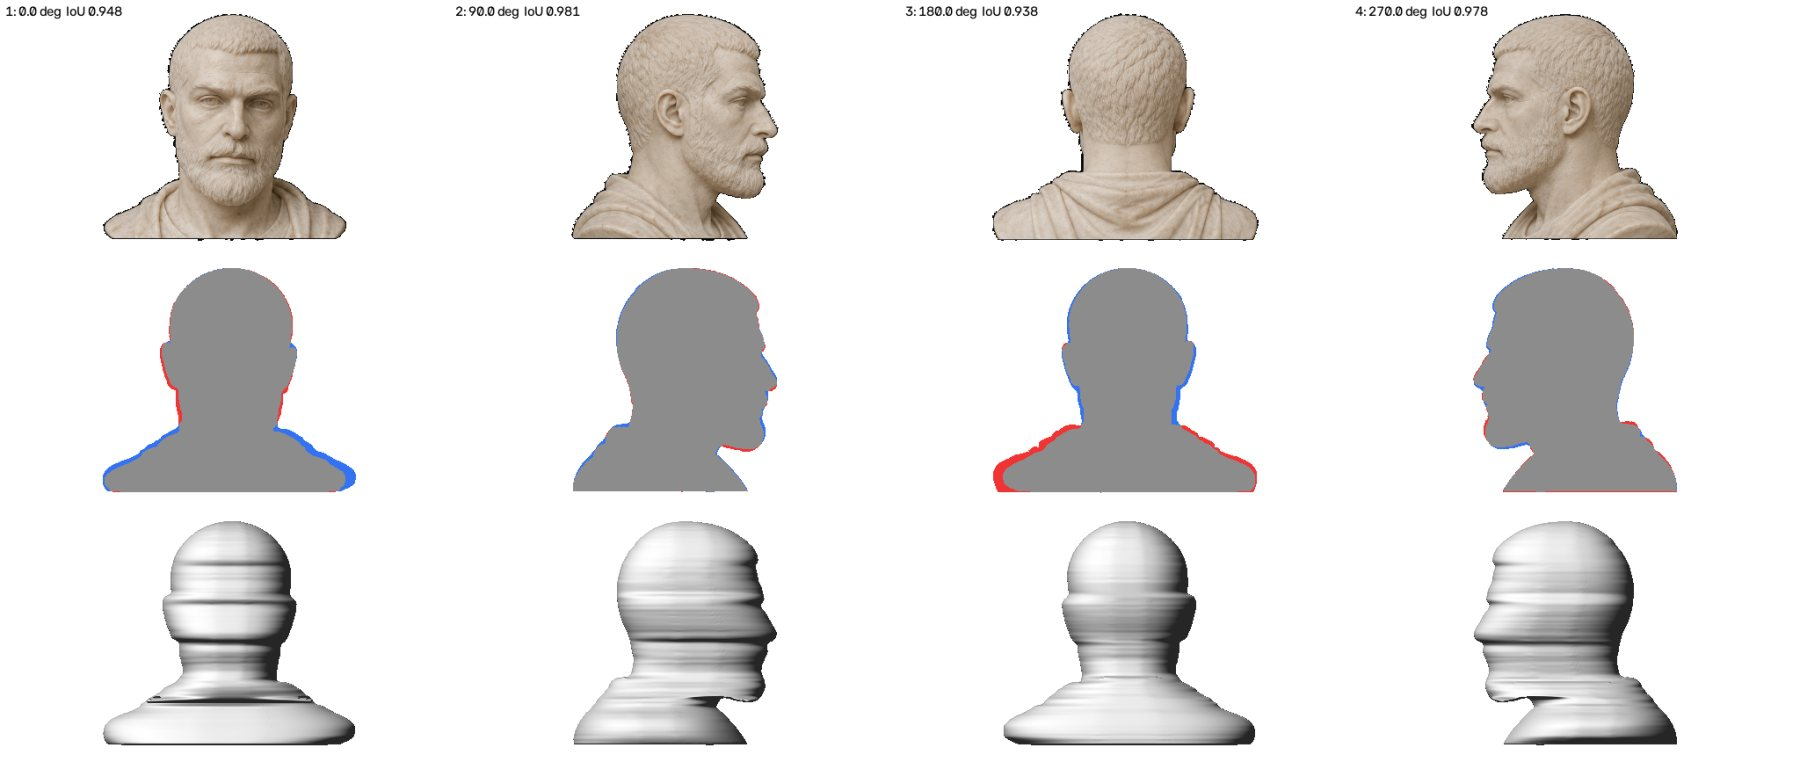
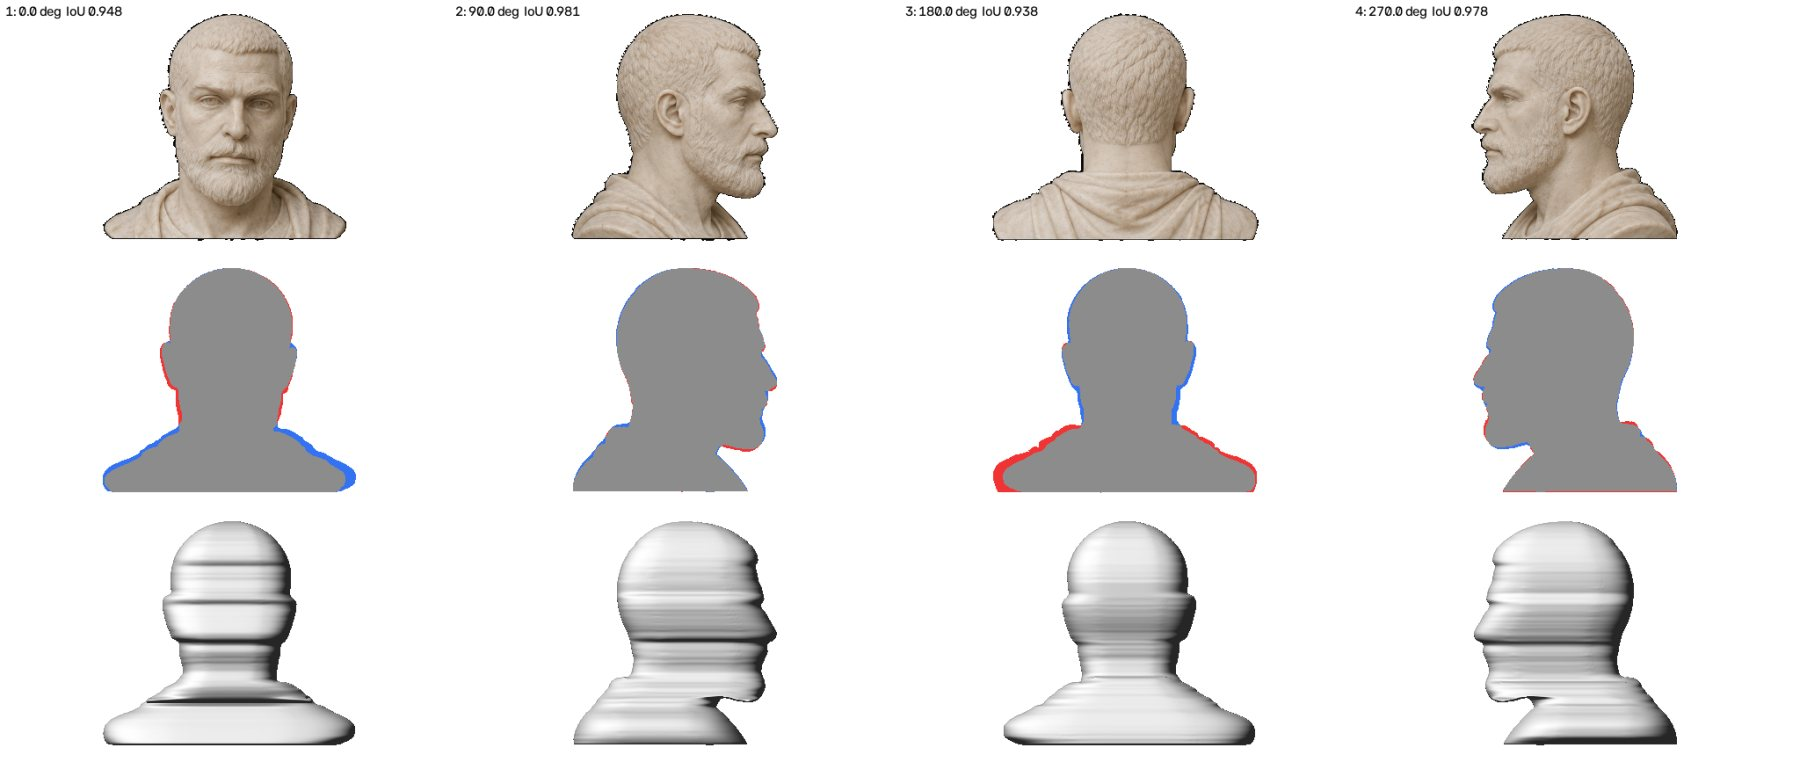
views_to_3d: safer defaults from tests on two known shapes
- 4-view rounding default 4 (rounded box): under 1 % of the true surface
  cut away on both test objects, still 20-35 % closer than the box hull
- --refine none keeps the drawn angles but still solves the centres
  (bbox centres alone cut up to 25 % of an asymmetric bust)
- optional --sections smooth for organic 8-view sheets
- TOOLKIT and README: final result tables (kettle 790 mm, bust 290 mm)

Claude-Session: https://claude.ai/code/session_018nizdY5ywakqgwUfYn1akH

diff --git a/image-to-3d/views_to_3d/views_to_3d.py b/image-to-3d/views_to_3d/views_to_3d.py
@@ -359,6 +359,60 @@ def round_cells(vol, n_exp):
     return out
 
 
+def smooth_sections(vol, angles, X, Y, convex_min=0.95, n_dense=180):
+    """3+ view directions: every hull slice is a polygon whose edges come from the
+    outlines. For each nearly convex piece, replace it by the smooth convex shape whose
+    support function is a periodic spline through the polygon's support at the view
+    normals. It touches every outline line, but cuts the polygon's corners."""
+    from scipy.interpolate import CubicSpline
+    g = X[0, 1] - X[0, 0]
+    phis = sorted(set(round((-a) % 360.0, 6) for a in angles) | set(round((180.0 - a) % 360.0, 6) for a in angles))
+    phis = np.radians(np.array(phis))
+    if len(phis) < 6:
+        return vol
+    dense = np.linspace(0, 2 * np.pi, n_dense, endpoint=False)
+    nd = np.stack([np.cos(dense), np.sin(dense)], 1)
+    out = vol.copy()
+    for i in range(vol.shape[0]):
+        sl = vol[i]
+        inside = sl < 0
+        if not inside.any():
+            continue
+        lab, nl = ndi.label(inside)
+        for ci, box in enumerate(ndi.find_objects(lab)):
+            if box is None:
+                continue
+            ys, xs = box
+            y0, y1 = max(0, ys.start - 1), min(sl.shape[0], ys.stop + 1)
+            x0, x1 = max(0, xs.start - 1), min(sl.shape[1], xs.stop + 1)
+            comp = lab[y0:y1, x0:x1] == ci + 1
+            if comp.sum() < 30:
+                continue
+            field = np.where(comp, sl[y0:y1, x0:x1], np.maximum(sl[y0:y1, x0:x1], 0.5))
+            cs = measure.find_contours(field, 0.0)
+            if not cs:
+                continue
+            pts = np.concatenate(cs)                                   # (row, col) in the window
+            P = np.stack([X[0, 0] + (pts[:, 1] + x0) * g, Y[0, 0] + (pts[:, 0] + y0) * g], 1)
+            try:
+                from scipy.spatial import ConvexHull
+                hull_area = ConvexHull(P).volume
+            except Exception:
+                continue
+            if comp.sum() * g * g < convex_min * hull_area:
+                continue                                               # concave piece: keep it
+            h = np.array([(P @ np.array([np.cos(t), np.sin(t)])).max() for t in phis])
+            tt = np.concatenate([phis, [phis[0] + 2 * np.pi]])
+            hh = np.concatenate([h, [h[0]]])
+            hs = CubicSpline(tt, hh, bc_type="periodic")(np.where(dense < phis[0], dense + 2 * np.pi, dense))
+            yy, xx = np.mgrid[y0:y1, x0:x1]
+            Q = np.stack([X[0, 0] + xx.ravel() * g, Y[0, 0] + yy.ravel() * g], 1)
+            f = (Q @ nd.T - hs[None]).max(1).reshape(comp.shape)
+            blk = out[i, y0:y1, x0:x1]
+            blk[comp] = np.maximum(blk[comp], f[comp])
+    return out
+
+
 def directions(angles):
     """Number of distinct view directions (a view and its mirror view count once)."""
     return len(set(int(round(a % 180.0)) % 180 for a in angles))
@@ -439,7 +493,10 @@ def calibrate(V, angles, refine, Hc, Wc, log):
     X, Y, _ = grid_xy(96, 0.5 * m_lr[0].shape[1])
     c_lr = lambda cs: [c * f for c in cs]
     ang = list(angles)
-    free = [k for k in range(n) if (refine == "all" and k > 0) or (refine == "oblique" and not nominal(angles[k]))]
+    # views to solve: their centre is always unknown (the axis is not the outline's middle);
+    # with refine "none" the drawn angle is kept and only the centre is searched
+    free = [k for k in range(n) if (refine == "all" and k > 0) or (refine != "all" and not nominal(angles[k]))]
+    a_coarse = np.arange(-25.0, 25.01, 2.5) if refine != "none" else np.array([0.0])
     groups, seen = [], set()
     for k in free:
         if k in seen:
@@ -487,8 +544,9 @@ def calibrate(V, angles, refine, Hc, Wc, log):
     for grp in groups:
         k, j, _S = grp
         c_ref = centres[k]
-        da, c, lo, hi, _sc = scan(grp, np.arange(-25.0, 25.01, 2.5), c_ref + np.arange(-0.12, 0.1201, 0.02) * Wc)
-        fine_a = np.arange(max(-25.0, lo - 2.5), min(25.0, hi + 2.5) + 0.01, 1.0)
+        da, c, lo, hi, _sc = scan(grp, a_coarse, c_ref + np.arange(-0.12, 0.1201, 0.02) * Wc)
+        fine_a = (np.arange(max(-25.0, lo - 2.5), min(25.0, hi + 2.5) + 0.01, 1.0)
+                  if refine != "none" else np.array([0.0]))
         da, c, lo, hi, sc = scan(grp, fine_a, c + np.arange(-0.03, 0.0301, 0.005) * Wc)
         # last pass: the centre alone, fine steps. Outlines fit equally well over a band of
         # centres; take its middle, and keep its half width as this view's uncertainty
@@ -696,13 +754,17 @@ def main(argv=None):
     ap.add_argument("--order", default="auto", choices=["auto", "as-is", "reverse"],
                     help="turn direction; auto = colour agreement test")
     ap.add_argument("--refine", default="oblique", choices=["none", "oblique", "all"],
-                    help="refine view angles by outline consistency")
+                    help="refine view angles by outline consistency (none = keep drawn angles; "
+                         "centres are always solved)")
     ap.add_argument("--height-mm", type=float, default=1000.0, help="real height of the object")
     ap.add_argument("--res", type=int, default=256, help="voxels over the height")
     ap.add_argument("--pairs", default="mean", choices=["mean", "strict"],
                     help="a view and its mirror view: average their outlines (mean) or cut by both")
     ap.add_argument("--round", default="auto",
-                    help="superellipse exponent for 2-direction sheets (4 views): auto = 2.5, off, or a number")
+                    help="superellipse exponent for 2-direction sheets (4 views): auto = 4, off, or a number "
+                         "(2.5 = closest shape, but shaves ~10%% of the surface)")
+    ap.add_argument("--sections", default="polygon", choices=["polygon", "smooth"],
+                    help="3+ view directions: keep the hull's polygon slices, or smooth convex ones")
     ap.add_argument("--soft", default="0",
                     help="round the edges between hull facets, px at --res (0 = off; tests: off is more accurate)")
     ap.add_argument("--tolerance", type=int, default=0,
@@ -742,7 +804,7 @@ def main(argv=None):
     tol_views = max(0, a.tolerance)
     pair_mean = a.pairs == "mean"
     if a.round == "auto":
-        round_n = 2.5 if directions(angles) <= 2 else 0.0
+        round_n = 4.0 if directions(angles) <= 2 else 0.0
     elif a.round == "off":
         round_n = 0.0
     else:
@@ -783,7 +845,11 @@ def main(argv=None):
     def build(ang_, cen_, rows_, X_, Y_):
         vol_ = hull_volume(sdfs, ang_, cen_, rows_, X_, Y_, tol_views, pair_mean=pair_mean, soft=soft_px,
                            grow=slack)
-        return round_cells(vol_, round_n) if round_n else vol_
+        if round_n:
+            return round_cells(vol_, round_n)
+        if a.sections == "smooth" and directions(ang_) >= 3:
+            return smooth_sections(vol_, ang_, X_, Y_)
+        return vol_
 
     if len(hyps) > 1:
         rows_l = np.arange(0, Hc, 2)

diff --git a/image-to-3d/views_to_3d/README.md b/image-to-3d/views_to_3d/README.md
@@ -56,24 +56,42 @@ Every step runs automatically:
    - So colour decides. The tool tests how well neighbouring views agree in luminance and chroma, at raw and fine-detail scales, on the surface points both views see.
 6. **Hull.**
    - A view and its mirror view count as one averaged outline (`--pairs mean`). AI sheets never draw front and back exactly mirrored, and a strict cut loses material.
-   - With only two view directions (4 views), every slice of the hull is a set of rectangles. Each rectangle gets a superellipse inscribed in it (`--round 2.5`).
+   - With only two view directions (4 views), every slice of the hull is a set of rectangles. Each rectangle gets a superellipse inscribed in it (`--round 4`: a rounded box).
    - The tool keeps the largest solid and fills its internal holes.
 7. **Mesh.** Marching cubes, then light smoothing, then a closed mesh in mm.
 
 | Option | Default | When to change it |
 |---|---|---|
-| `--round` | `auto` (2.5 for 4 views) | `--round 2` for very round objects (heads, bodies, vases). `--round off` for boxy parts (letters, signs, furniture). |
-| `--refine` | `oblique` | `none` if your diagonal views are known to be exact. `all` to also refine the 90/180/270 views. |
+| `--round` | `auto` (4 for 4 views) | `2.5`: closest average shape, but it shaves about 10 % of the surface by a few mm. `off`: boxy parts (letters, signs, furniture). |
+| `--refine` | `oblique` | `none` keeps the drawn angles (the centres are still solved). `all` also refines the 90/180/270 views. |
 | `--order` | `auto` | `as-is` / `reverse` to force the turn direction. |
 | `--pairs` | `mean` | `strict` for real, consistent photos (a turntable shoot). |
+| `--sections` | `polygon` | `smooth` (8+ views): each nearly convex slice becomes a smooth convex shape that still touches every outline line. It is about 20 % closer on average, but on the test object it shaved about 10 % of the true surface by up to 2 cm at hard edges. Use it for organic shapes only. |
 | `--soft` | `0` | A value in px rounds the hull edges. It was less accurate in the tests. |
 | `--res` | `256` | `384`–`512` for more detail (slower, more memory). |
 
 ## Tested on objects with a known true shape (`selftest.py`)
 
-`selftest.py` renders sheets of a test object whose shape is known, runs the tool, and measures the error against the truth. The test object is an asymmetric "kettle" with a spout, a handle ring, a front plate and a back fin.
+`selftest.py` renders sheets of an object whose shape is known, runs the tool, and measures the error against the truth. Two objects were tested:
+- A built-in asymmetric "kettle", 790 mm, with a spout, a handle ring, a front plate and a back fin.
+- The Mode 4 bust, 290 mm.
 
-The results table is in `../TOOLKIT.md`. Re-run it with:
+There are 5 cases each:
+- 4 views;
+- 4 views with LEFT/RIGHT swapped;
+- 4 views with the safe settings;
+- 8 views, exact;
+- 8 views with the diagonals 7° off, on a black background.
+
+The results table is in `../TOOLKIT.md` (section 0). In short:
+- The turn direction was right in every case.
+- Every mesh was closed.
+- The defaults cut away under 2 % of the true surface.
+- Mean error on the bust: 4.8–5.5 mm on 290 mm.
+
+`example_selftest_8view.jpg` is the check sheet of the hardest kettle case.
+
+Re-run it with:
 
 ```
 python selftest.py                              # built-in test object
@@ -83,7 +101,7 @@ python selftest.py --mesh any_mesh.npz --height-mm 290
 ## Limits
 
 - **Hidden concave areas.** The hull cannot see a concave area that no outline shows: eye sockets, the inside of a cup, or the gap between an arm and the body when seen from the front. These come out filled, as extra material. Carve them in Rhino or on the machine, or add views that show them.
-- **Shaved corners with 4 views.** The default rounding (`--round 2.5`) is about 30 % closer overall, but it shaves sharp box corners: on the test object, a few % of the true surface by a few mm. For boxy parts, or when no material may be missing, use `--round off --pairs strict`.
+- **Shaved corners with 4 views.** Rounding is a guess about the shape between the outlines. The default `--round 4` (a rounded box) shaved under 1 % of the true surface in the tests. `--round 2.5` is closer on average, but it shaves about 10 %. For boxy parts, use `--round off`.
 - **4 views give a rough form.** Features that only the side view shows, such as a nose or a brow, become horizontal bands across the full width. 8 views are better. For faces, the face-specific pipeline (`../pipeline/multiview/`, Mode 4) is better still.
 - **Perspective.** The views must be orthographic, or close to it: no strong perspective and no wide-angle look.
 - **Background.** The object must stand on a plain background. Shadows on the floor count as part of the object.

diff --git a/image-to-3d/TOOLKIT.md b/image-to-3d/TOOLKIT.md
@@ -75,27 +75,32 @@ Everything is automatic:
 
 Full details and the prompt for a good sheet are in [`views_to_3d/README.md`](views_to_3d/README.md).
 
-**Test on a shape with a known truth** (`views_to_3d/selftest.py`): an asymmetric 790 mm "kettle" with a spout, a handle ring, a front plate and a back fin, rendered as sheets.
+**Tests on shapes with a known truth** (`views_to_3d/selftest.py`). Sheets were rendered from 2 objects whose real shape is known; the tool rebuilt them from the sheets alone.
+- **Kettle:** asymmetric, 790 mm, with a spout, a handle ring, a front plate and a back fin.
+- **Bust:** the Mode 4 bust, 290 mm.
 
-| Case | Turn direction found | Diagonal angles found (true) | Mean error: missed / extra | True surface missing (> 1 voxel) | Closed |
+| Case | Turn direction | Diagonal angles found (true) | Kettle: missed / extra, mean | Bust: missed / extra, mean | True surface missing (> 1 voxel): kettle / bust |
 |---|---|---|---|---|---|
-| 4 views | correct | n/a | 13 / 49 mm | 3.7 % | yes |
-| 4 views, LEFT/RIGHT swapped | **fixed automatically** | n/a | 13 / 49 mm | 3.8 % | yes |
-| 4 views, safe (`--round off --pairs strict`) | correct | n/a | 20 / 63 mm | **0.5 %** | yes |
-| 8 views, exact | correct | 45 / 135 kept (45 / 135) | 16 / 29 mm | 1.3 % | yes |
-| 8 views, diagonals 7° off, black background | correct | 35 / 135.5 (38 / 142) | 15 / 35 mm | 1.7 % | yes |
+| 4 views | correct | n/a | 18 / 55 mm | 4.8 / 6.3 mm | 0.6 % / 0.7 % |
+| 4 views, LEFT/RIGHT swapped | **fixed automatically** | n/a | 18 / 55 mm | 4.8 / 6.2 mm | 0.6 % / 0.6 % |
+| 4 views, `--round off --pairs strict` | correct | n/a | 20 / 63 mm | 5.8 / 9.8 mm | 0.5 % / 0.4 % |
+| 8 views, exact | correct | kettle 45 / 135 (45 / 135); bust 45.5 / 135 | 16 / 29 mm | 5.5 / 7.1 mm | 1.3 % / 0.4 % |
+| 8 views, diagonals 7° off, black background | correct | kettle 35 / 135.5; bust 45 / 135 (true 38 / 142) | 15 / 35 mm | 5.3 / 7.1 mm | 1.7 % / 0.4 % |
+| 8 views + `--sections smooth` (bust) | correct | 45.5 / 135 | n/a | **4.0 / 4.8 mm** | n/a / 2.2 % |
 
 How to read the table:
 - **Missed** = how far the true surface lies from the model.
 - **Extra** = material the hull fills in: concave parts that no outline shows.
 - Every result is a closed mesh. The handle hole stays open.
-- With only outlines, a diagonal angle can be off by a few degrees with no visible change. When that happens, the tool keeps the drawn angle, and it grows any outline it is unsure of so that view cannot cut real material.
+- **Missing** = true material the model cut away. The defaults keep it under 2 %.
+  - Rounder settings get closer on average but cut more: `--round 2.5` reached 3 / 4 mm on the bust, but cut 10 % of its surface.
+  - With only outlines, a diagonal angle can be off by a few degrees with no visible change. When that happens, the tool keeps the drawn angle, and it grows any outline it is unsure of so that view cannot cut real material.
 
 **On your two sheets:**
 
 | Sheet | Result |
 |---|---|
-| 4-view bust (2×2, with grid lines) | 17 s. Closed, 290 mm, 7.8 L. Outline match 94–98 %. Mean distance from the Mode 4 bust (the face-tuned pipeline): **4.9 mm**. See `views_to_3d/example_4view_check.jpg`. |
+| 4-view bust (2×2, with grid lines) | 21 s. Closed, 290 mm, 8.5 L. Outline match 94–98 %. Mean distance from the Mode 4 bust (the face-tuned pipeline): **6.5 mm**. See `views_to_3d/example_4view_check.jpg`. |
 | 8-view bust (2×4, views almost touching) | 66 s. Closed, 7.2 L. The diagonal views were found at **35° and 128°**, not the 45 / 135° they were drawn as. The direction was found from colour. See `views_to_3d/example_8view_check.jpg`. |
 
 A 4-view hull is a rough form: a nose or a brow becomes a band across the face. Use it as the CNC roughing shape and carve the details. For faces, Mode 4 (face-specific) stays better.
